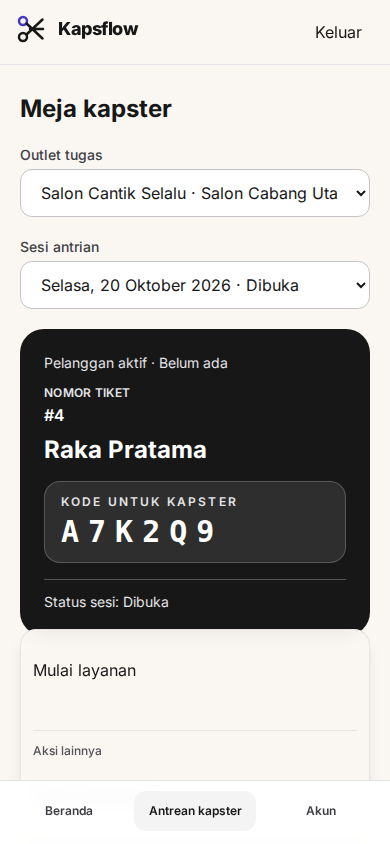
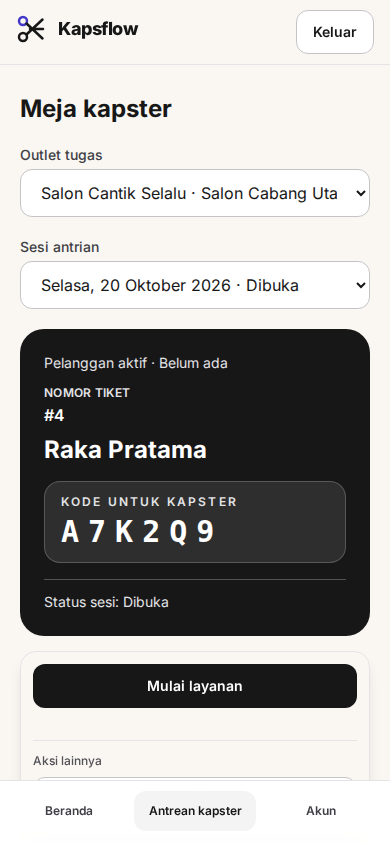
fase UI-10: gunakan warna sukses pada notifikasi kapster
Ganti latar ink pada konfirmasi aksi dengan Alert sukses semantik.
Periksa warna notifikasi melalui computed style dan kelas status Playwright.

Claude-Session: https://claude.ai/code/session_01HUsY6ZgZyaUUgJZkRwD266

Changed region(s): [[0.0615, 0.7393, 0.9231, 0.9242], [0.8, 0.0308, 0.9231, 0.0616]]

diff --git a/frontend/src/pages/Kapster.tsx b/frontend/src/pages/Kapster.tsx
@@ -288,7 +288,7 @@ function QueuePanel({ membership, session, onStreamConnectionChange }: {
         {action.isError && <Alert>{action.error instanceof ApiError && action.error.code === 'berlangganan_diperlukan'
           ? 'Langganan bisnis ini tidak aktif. Minta owner bisnis memperbarui langganannya.'
           : messageOf(action.error)}</Alert>}
-        {toast && <p className="rounded-xl bg-ink px-4 py-3 text-sm text-white" role="status">{toast}</p>}
+        {toast && <Alert tone="success">{toast}</Alert>}
         {session.status !== 'open' && <Alert tone="info">Sesi ditutup untuk pesanan baru. Selesaikan tiket yang masih tersisa.</Alert>}
       </section>
       <ConfirmDialog

diff --git a/docs/ROADMAP.md b/docs/ROADMAP.md
@@ -59,7 +59,7 @@ Perbarui file ini di setiap commit fase. Satu baris per fase.
 | 15-5 | Container migrator menjalankan Goose dan menyetel password role runtime sebelum API dimulai; API tidak mendapat DATABASE_URL |
 | UI-6 | Tema monokrom memakai satu aksen indigo terbatas untuk penanda, informasi, dan identitas; tombol utama dan status tetap memakai warna semantiknya |
 | UI-8 | Panel samping masuk tampil ringkas di HP dan ilustrasi barber memakai aksen indigo |
-| UI-10 | Perbaiki gaya tombol umum yang tertimpa `className`; rapikan ukuran aksi kapster ke tinggi sentuh minimum 44px |
+| UI-10 | Perbaiki gaya tombol umum yang tertimpa `className`; rapikan aksi kapster dan gunakan warna sukses untuk notifikasi berhasil |
 
 ## Berikutnya (urutan wajib)
 
